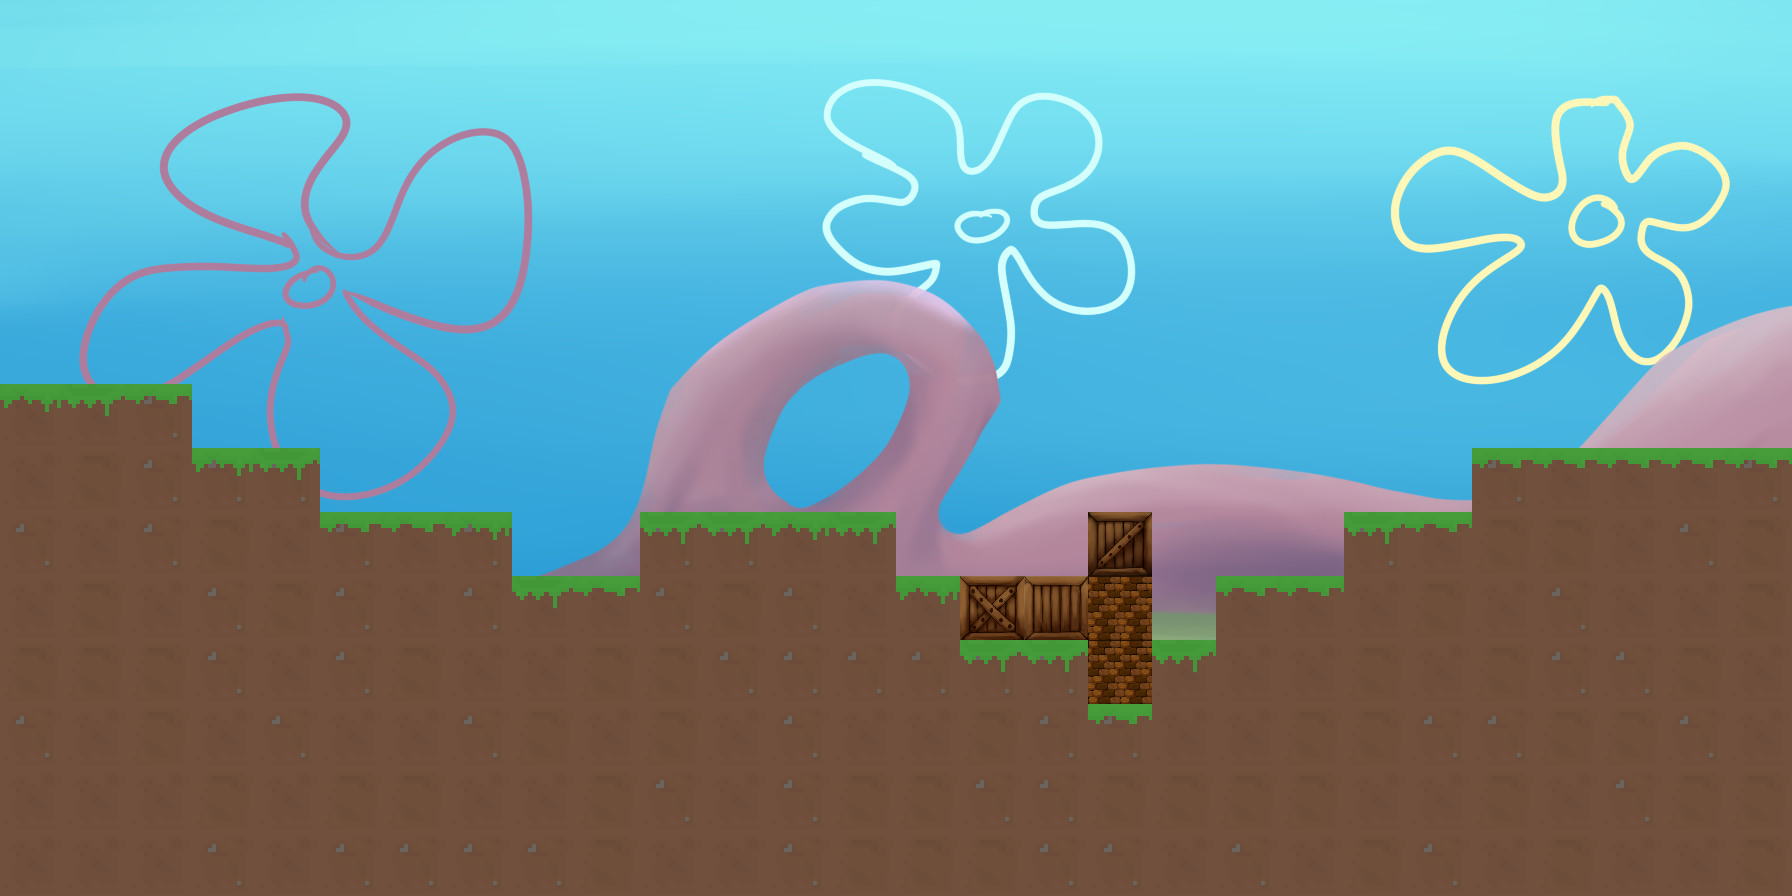
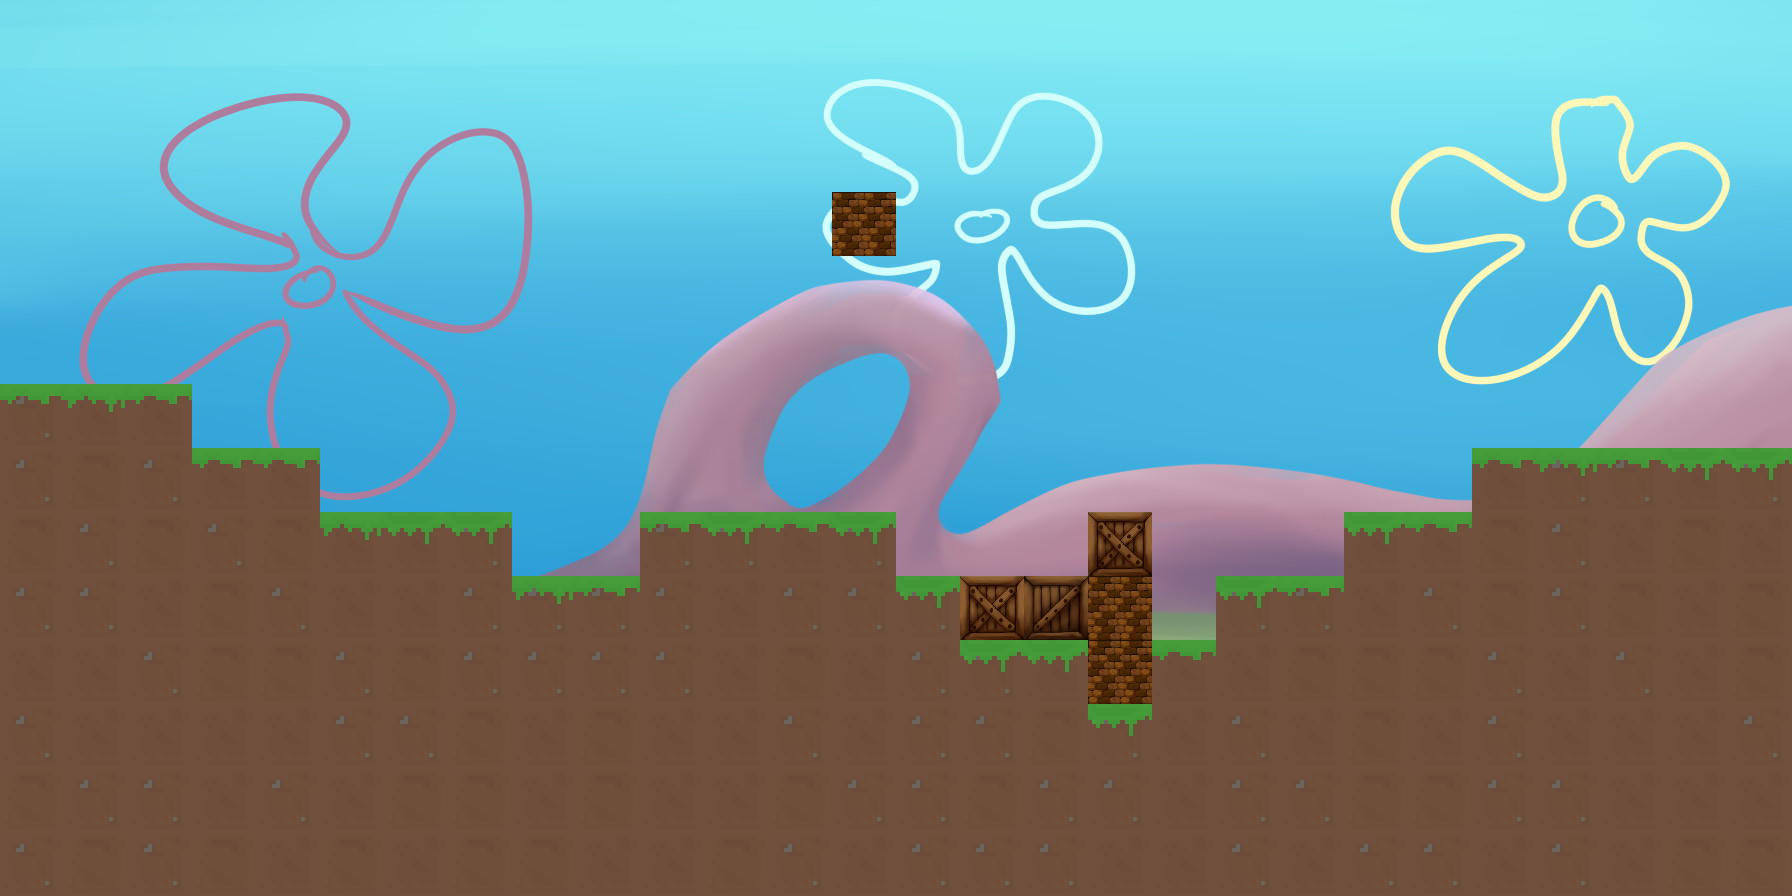
update(view): add bob arm | update(physics): enlarge hitbox

diff --git a/main.py b/main.py
@@ -21,26 +21,26 @@ def main():
             -1: pg.transform.flip(
                 pg.transform.scale(
                     pg.image.load(f"resources/sprites/player/patrick/body.png").convert_alpha(),
-                    (64, 128)
+                    (128, 128)
                 ),
                 True, False
             ),
             1: pg.transform.scale(
                 pg.image.load(f"resources/sprites/player/patrick/body.png").convert_alpha(),
-                (64, 128)
+                (128, 128)
             )
         },
         'bob': {
             -1: pg.transform.flip(
                 pg.transform.scale(
                     pg.image.load(f"resources/sprites/player/bob/body.png").convert_alpha(),
-                    (64, 128)
+                    (128, 128)
                 ),
                 True, False
             ),
             1: pg.transform.scale(
                 pg.image.load(f"resources/sprites/player/bob/body.png").convert_alpha(),
-                (64, 128)
+                (128, 128)
             )
         },
     }
@@ -49,15 +49,23 @@ def main():
     Player.life = 100
     Player.fuel = 10e10
 
-    img = {-1: {}, 1: {}}
+    img = {'patrick': {-1: {}, 1: {}}, 'bob': {-1: {}, 1: {}}}
     for i in range(-4, 15, 2):
         loaded_img = pg.transform.scale(
             pg.image.load(f"resources/sprites/player/patrick/arm/{i}.png").convert_alpha(),
             (128, 128)
         )
 
-        img[-1][i] = pg.transform.flip(loaded_img, True, False)
-        img[1][i] = loaded_img
+        img['patrick'][-1][i] = pg.transform.flip(loaded_img, True, False)
+        img['patrick'][1][i] = loaded_img
+
+        loaded_img = pg.transform.scale(
+            pg.image.load(f"resources/sprites/player/bob/arm/{i}.png").convert_alpha(),
+            (128, 128)
+        )
+
+        img['bob'][-1][i] = pg.transform.flip(loaded_img, True, False)
+        img['bob'][1][i] = loaded_img
     Arm.images = img
 
     text = pg.font.Font(None, 20)
@@ -99,8 +107,8 @@ def main():
     player1 = Player(screen.get_rect(), world.level.players.get(1), 1, 'patrick')
     player2 = Player(screen.get_rect(), world.level.players.get(2), -1, 'bob')
 
-    arm1 = Arm(screen.get_rect(), world.level.players.get(1), 1)
-    arm2 = Arm(screen.get_rect(), world.level.players.get(2), -1)
+    arm1 = Arm(screen.get_rect(), world.level.players.get(1), 1, 'patrick')
+    arm2 = Arm(screen.get_rect(), world.level.players.get(2), -1, 'bob')
 
     life1 = Life(screen.get_rect(), world.level.players.get(1))
     life2 = Life(screen.get_rect(), world.level.players.get(2))

diff --git a/objects/weapons.py b/objects/weapons.py
@@ -27,8 +27,8 @@ class Bullet(pg.sprite.Sprite):
         self.screen_rect = screen_rect
 
         self.velocity = velocity
-        self.x = x
-        self.y = y + 30
+        self.x = x + 10
+        self.y = y + 42
         self.origin = (self.x, self.y)
         self.damage = damage
         self.angle = angle
@@ -58,7 +58,7 @@ class Bullet(pg.sprite.Sprite):
 
     def update(self):
         print(self.x, self.y, self.adv)
-        if (self.adv[0] + 40) > self.x > (self.adv[0] - 40) and (self.adv[1] + 128) > self.y > (self.adv[1] - 128):
+        if (self.adv[0] + 96) > self.x > (self.adv[0] - 16) and (self.adv[1] + 144) > self.y > (self.adv[1] - 16):
             self.image = pg.transform.scale(
                 pg.image.load(f"resources/sprites/effects/explosion.png").convert_alpha(),
                 (64, 64)

diff --git a/resources/levels/1/map.py b/resources/levels/1/map.py
@@ -6,7 +6,7 @@ players = {
 layouts = [[0, 0, 0, 0, 0, 0, 0, 0, 0, 0, 0, 0, 0, 0, 0, 0, 0, 0, 0, 0, 0, 0, 0, 0, 0, 0, 0, 0],
            [0, 0, 0, 0, 0, 0, 0, 0, 0, 0, 0, 0, 0, 0, 0, 0, 0, 0, 0, 0, 0, 0, 0, 0, 0, 0, 0, 0],
            [0, 0, 0, 0, 0, 0, 0, 0, 0, 0, 0, 0, 0, 0, 0, 0, 0, 0, 0, 0, 0, 0, 0, 0, 0, 0, 0, 0],
-           [0, 0, 0, 0, 0, 0, 0, 0, 0, 0, 0, 0, 0, 0, 0, 0, 0, 0, 0, 0, 0, 0, 0, 0, 0, 0, 0, 0],
+           [0, 0, 0, 0, 0, 0, 0, 0, 0, 0, 0, 0, 0, 3, 0, 0, 0, 0, 0, 0, 0, 0, 0, 0, 0, 0, 0, 0],
            [0, 0, 0, 0, 0, 0, 0, 0, 0, 0, 0, 0, 0, 0, 0, 0, 0, 0, 0, 0, 0, 0, 0, 0, 0, 0, 0, 0],
            [0, 0, 0, 0, 0, 0, 0, 0, 0, 0, 0, 0, 0, 0, 0, 0, 0, 0, 0, 0, 0, 0, 0, 0, 0, 0, 0, 0],
            [2, 2, 2, 0, 0, 0, 0, 0, 0, 0, 0, 0, 0, 0, 0, 0, 0, 0, 0, 0, 0, 0, 0, 0, 0, 0, 0, 0],

diff --git a/objects/player.py b/objects/player.py
@@ -16,7 +16,7 @@ class Player(pg.sprite.Sprite):
     def __init__(self, screen_rect, pos: tuple, facing: int, skin):
         pg.sprite.Sprite.__init__(self, self.containers)
         self.screen_rect = screen_rect
-        
+
         self.images = self.images.get(skin)
 
         self.image = self.images.get(facing)
@@ -51,9 +51,11 @@ class Arm(pg.sprite.Sprite):
     gun_offset = -11
     images = {}
 
-    def __init__(self, screen_rect, pos: tuple, facing):
+    def __init__(self, screen_rect, pos: tuple, facing, skin):
         pg.sprite.Sprite.__init__(self, self.containers)
         self.screen_rect = screen_rect
+
+        self.images = self.images.get(skin)
 
         self.image = self.images.get(facing).get(self.angle)
         self.rect = self.image.get_rect(
